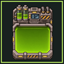
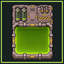
Rotate Gene Vat animation and refresh all deployed runtime assets

diff --git a/Source/GeneFoundry/GeneFoundry/Recipes/MapComponent_CorpseLiquidationVisuals.cs b/Source/GeneFoundry/GeneFoundry/Recipes/MapComponent_CorpseLiquidationVisuals.cs
@@ -16,7 +16,7 @@ namespace GeneFoundry.Recipes
     public class MapComponent_CorpseLiquidationVisuals : MapComponent
     {
         // Usable rectangle inside the basin's chamfered metal edges, measured
-        // on the unchanged 1086x1448 north image: (110,590)..(980,1240).
+        // on the 1086x1448 source image: (110,590)..(980,1240).
         internal const float BasinWidthFraction = 870f / 1086f;
         internal const float BasinHeightFraction = 650f / 1448f;
         internal const float BasinCenterX = 545f / 1086f - .5f;
@@ -101,13 +101,14 @@ namespace GeneFoundry.Recipes
             Thing vat = state.source.LiquidationVat;
             if (state.parts.Count == 0 && !PrepareCorpse(corpse, vat, state)) return;
             int stage = BiomassCalculations.LiquidationVisualStage((int)corpse.GetRotStage(), state.source.LiquidationProgress);
-            Vector3 center = vat.DrawPos + vat.Graphic.DrawOffset(vat.Rotation) + state.basinOffset;
+            Quaternion rotation = vat.Graphic.QuatFromRot(vat.Rotation);
+            Vector3 center = vat.DrawPos + vat.Graphic.DrawOffset(vat.Rotation) + rotation * state.basinOffset;
             center.y += .01f;
-            Matrix4x4 translation = Matrix4x4.Translate(center);
+            Matrix4x4 translation = Matrix4x4.TRS(center, rotation, Vector3.one);
             foreach (Part part in state.parts)
                 if (part.stage == stage)
                     GenDraw.DrawMeshNowOrLater(part.mesh, translation * part.matrix, Graphic_GeneVat.ContentsMaterial(part.material), false);
-            DrawBubbles(state.basinSize, state.top, state.startedAt, center);
+            DrawBubbles(state.basinSize, state.top, state.startedAt, center, rotation);
         }
         private bool PrepareCorpse(Corpse corpse, Thing vat, Presentation state)
         {
@@ -185,7 +186,7 @@ namespace GeneFoundry.Recipes
             float basinHeight = size.y * BasinHeightFraction - 2f * BasinMargin;
             float bubbleHeight = Mathf.Min(basinWidth, basinHeight * 500f / 203f) * 203f / 500f;
             return vat.DrawPos + vat.Graphic.DrawOffset(vat.Rotation) +
-                new Vector3(size.x * BasinCenterX, .02f,
+                vat.Graphic.QuatFromRot(vat.Rotation) * new Vector3(size.x * BasinCenterX, .02f,
                     size.y * BasinCenterZ - (basinHeight - bubbleHeight) * .5f + .25f);
         }
         internal static void DrawMaterialBubbles(Thing vat, int startedAt)
@@ -194,10 +195,10 @@ namespace GeneFoundry.Recipes
             Vector2 basin = new Vector2(size.x * BasinWidthFraction - 2f * BasinMargin,
                 size.y * BasinHeightFraction - 2f * BasinMargin);
             Vector3 center = vat.DrawPos + vat.Graphic.DrawOffset(vat.Rotation) +
-                new Vector3(size.x * BasinCenterX, .01f, size.y * BasinCenterZ);
-            DrawBubbles(basin, .04f, startedAt, center);
+                vat.Graphic.QuatFromRot(vat.Rotation) * new Vector3(size.x * BasinCenterX, .01f, size.y * BasinCenterZ);
+            DrawBubbles(basin, .04f, startedAt, center, vat.Graphic.QuatFromRot(vat.Rotation));
         }
-        private static void DrawBubbles(Vector2 basinSize, float top, int startedAt, Vector3 center)
+        private static void DrawBubbles(Vector2 basinSize, float top, int startedAt, Vector3 center, Quaternion rotation)
         {
             if (!bubblesLoaded)
             {
@@ -222,11 +223,11 @@ namespace GeneFoundry.Recipes
             float width = Mathf.Min(basinSize.x, basinSize.y * 500f / 203f);
             // Anchor the overlay to the basin's lower interior edge.
             float height = width * 203f / 500f;
-            center.z -= (basinSize.y - height) * .5f;
+            center += rotation * new Vector3(0f, 0f, -(basinSize.y - height) * .5f);
             center.y += top + .01f;
             int frame = BiomassCalculations.BubbleMassFrame(Find.TickManager.TicksGame - startedAt);
             GenDraw.DrawMeshNowOrLater(bubbleMesh,
-                Matrix4x4.TRS(center, Quaternion.identity, new Vector3(width, 1f, height)),
+                Matrix4x4.TRS(center, rotation, new Vector3(width, 1f, height)),
                 bubbleMaterials[frame], false);
         }
         private static Graphic VisualGraphic(PawnRenderNode node, Pawn pawn, int stage)

diff --git a/Source/GeneFoundry/GeneFoundry.Tests/GeneVatAnimationTests.cs b/Source/GeneFoundry/GeneFoundry.Tests/GeneVatAnimationTests.cs
@@ -64,7 +64,7 @@ namespace GeneFoundry.Tests
         }
 
         [Fact]
-        public void VatUsesOneRealtimeGraphicWithExistingDimensionsAndDirections()
+        public void VatUsesOneRotatingRealtimeGraphicWithAlignedSourceExports()
         {
             var vat = XDocument.Load(Path.Combine(AppContext.BaseDirectory, "Fixtures/Defs/ThingDefs/GeneVat.xml"))
                 .Descendants("ThingDef").Single(x => (string)x.Element("defName") == "GF_GeneVat");
@@ -77,6 +77,11 @@ namespace GeneFoundry.Tests
             Assert.Equal("GeneFoundry.Recipes.Graphic_GeneVat", (string)vat.Element("graphicData").Element("graphicClass"));
             Assert.Equal("GeneFoundry/Buildings/GeneVat", (string)vat.Element("graphicData").Element("texPath"));
             Assert.Equal("(3,3.6)", (string)vat.Element("graphicData").Element("drawSize"));
+            Assert.Equal("true", (string)vat.Element("rotatable"));
+            Assert.Equal("true", (string)vat.Element("graphicData").Element("drawRotated"));
+            string fixtures = Path.Combine(AppContext.BaseDirectory, "Fixtures");
+            Assert.Equal(File.ReadAllBytes(Path.Combine(fixtures, "Vat/Source.png")),
+                File.ReadAllBytes(Path.Combine(fixtures, "Vat/GeneVat.png")));
             Assert.Equal("(3,3)", (string)vat.Element("size"));
             Assert.Contains(vat.Element("comps").Elements(), x =>
                 (string)x.Attribute("Class") == "GeneFoundry.Components.CompProperties_GeneVatAnimation");

diff --git a/Source/GeneFoundry/GeneFoundry/Recipes/Graphic_GeneVat.cs b/Source/GeneFoundry/GeneFoundry/Recipes/Graphic_GeneVat.cs
@@ -5,9 +5,8 @@ using Verse;
 
 namespace GeneFoundry.Recipes
 {
-    // The original Multi graphic stays visible; the supplied aligned transparent
-    // transitions use its exact mesh, offsets and rotation above that base.
-    public class Graphic_GeneVat : Graphic_Multi
+    // One shared sprite and its aligned transitions rotate together in every direction.
+    public class Graphic_GeneVat : Graphic_Single
     {
         internal const int TransitionQueue = 3000;
         internal const int ContentsQueue = 3001;
@@ -39,7 +38,7 @@ namespace GeneFoundry.Recipes
         public override void DrawWorker(Vector3 loc, Rot4 rot, ThingDef thingDef, Thing thing, float extraRotation)
         {
             base.DrawWorker(loc, rot, thingDef, thing, extraRotation);
-            if (rot != Rot4.North || frames == null || thing == null) return;
+            if (frames == null || thing == null) return;
             int frame = thing.TryGetComp<CompGeneVatAnimation>()?.FrameAt(Find.TickManager.TicksGame) ?? -1;
             if (frame < 0) return;
             Quaternion rotation = QuatFromRot(rot);

diff --git a/Source/GeneFoundry/GeneFoundry.Tests/MaterialVisualTests.cs b/Source/GeneFoundry/GeneFoundry.Tests/MaterialVisualTests.cs
@@ -20,6 +20,17 @@ namespace GeneFoundry.Tests
         }
 
         [Fact]
+        public void SharedGraphicAndAnimationUseEveryBuildingRotation()
+        {
+            Assert.Equal(typeof(Graphic_Single), typeof(Graphic_GeneVat).BaseType);
+            string source = System.IO.File.ReadAllText(System.IO.Path.Combine(System.AppContext.BaseDirectory,
+                "Fixtures/Source/Recipes/Graphic_GeneVat.cs"));
+            Assert.DoesNotContain("rot != Rot4.North", source);
+            Assert.Contains("Quaternion rotation = QuatFromRot(rot)", source);
+            Assert.Contains("MeshAt(rot)", source);
+        }
+
+        [Fact]
         public void DespawningVatRestoresIngredientGraphicsWithoutMovingOrConsumingThem()
         {
             var vat = new CompGeneVatAnimation { parent = new ThingWithComps() };

diff --git a/README.md b/README.md
@@ -30,7 +30,7 @@ scripts/               Deployment, artwork and release tooling
 dist/GeneFoundry/       Generated upload package, including Assemblies/GeneFoundry.dll
 ```
 
-For a production build without installation side effects: `dotnet build Source/GeneFoundry/GeneFoundry/GeneFoundry.csproj -c Release -p:DeployMod=false`. Normal local builds retain the existing deployment hook; `scripts/deploy.ps1` reads assets from `Mod/`. Do not enable both an old development copy and the packaged mod simultaneously.
+For a production build without installation side effects: `dotnet build Source/GeneFoundry/GeneFoundry/GeneFoundry.csproj -c Release -p:DeployMod=false`. Every local build synchronizes the exported Gene Vat PNGs from `Source/Textures/GeneVatFrames` into `Mod/Textures`. Normal local builds run deployment after the build, even when compilation is already up to date; `scripts/deploy.ps1` reads assets from `Mod/`. Do not enable both an old development copy and the packaged mod simultaneously.
 
 ## Building costs and power
 
@@ -291,7 +291,7 @@ Each vat persists its own incident deadline and emission schedule. An incident l
 
 ### Gene Vat machine animation
 
-The north-facing vat uses the original idle sprite until a pawn reaches actual biomass extraction. Meat, plant and corpse extraction use eight unchanged runtime frames, held for 6 game ticks each, in the sequence 00–07–01 (14 displayed frames, 84 ticks). Pausing freezes the frame; game speed controls playback. Each vat starts its own visual cycle. Hauling and artificial-part recovery remain static. The native Multi graphic supplies geometry, offsets and other directions; realtime drawing adds only the transparent transition layer above the original north image. Explicit material queues order transitions, corpse/ingredients and foreground BubbleMass in that order. Missing animation assets log once and fall back to the static sprite. No animation state is saved.
+The rotatable vat uses a single idle sprite at every angle until a pawn reaches actual biomass extraction. Meat, plant and corpse extraction use eight aligned runtime frames, held for 6 game ticks each, in the sequence 00–07–01 (14 displayed frames, 84 ticks). Pausing freezes the frame; game speed controls playback. Each vat starts its own visual cycle. Hauling and artificial-part recovery remain static. The single graphic and transparent transition layer rotate together. Basin contents and bubbles use the same rotation. Explicit material queues order transitions, corpse/ingredients and foreground BubbleMass in that order. Missing animation assets log once and fall back to the static sprite. No animation state is saved.
 
 In-game checks still required: exercise all six extraction bills, check idle/hauling/part recovery, draft or interrupt the worker, cut power, finish a bill, and save/reload during work. Check two vats with different start times. Confirm alpha edges, alignment, dimensions, corpse placement/liquidation and selection/placement previews remain correct. Automated tests verify timing, sequence, definition wiring and byte-identical runtime assets; they do not verify Unity rendering.
 

diff --git a/docs/RELEASE.md b/docs/RELEASE.md
@@ -69,7 +69,7 @@ For later updates, retain the same publication ID and package ID, rebuild/valida
 
 ## Development deployment
 
-Normal local builds keep the previous automatic deployment behaviour. Set `GENEFOUNDRY_MOD_DIR` to an existing local mod directory whose About.xml has the established package ID. `scripts/deploy.ps1` now reads runtime assets exclusively from `Mod/`, refreshes About/artwork and LICENSE as well as runtime folders, and preserves publication IDs. It can also be invoked explicitly:
+Normal local builds synchronize the explicit Gene Vat PNG exports into Mod/ and deploy after every Build/Rebuild, even when compilation is already up to date. Source XCF projects are never copied. Set `GENEFOUNDRY_MOD_DIR` to an existing local mod directory whose About.xml has the established package ID. `scripts/deploy.ps1` now reads runtime assets exclusively from `Mod/`, deletes stale local contents and copies About/artwork, LICENSE and all runtime folders fresh, preserving only About/PublishedFileId.txt. It can also be invoked explicitly:
 
 ```powershell
 $env:GENEFOUNDRY_MOD_DIR = 'C:\Path To\RimWorld\Mods\GeneFoundry'
